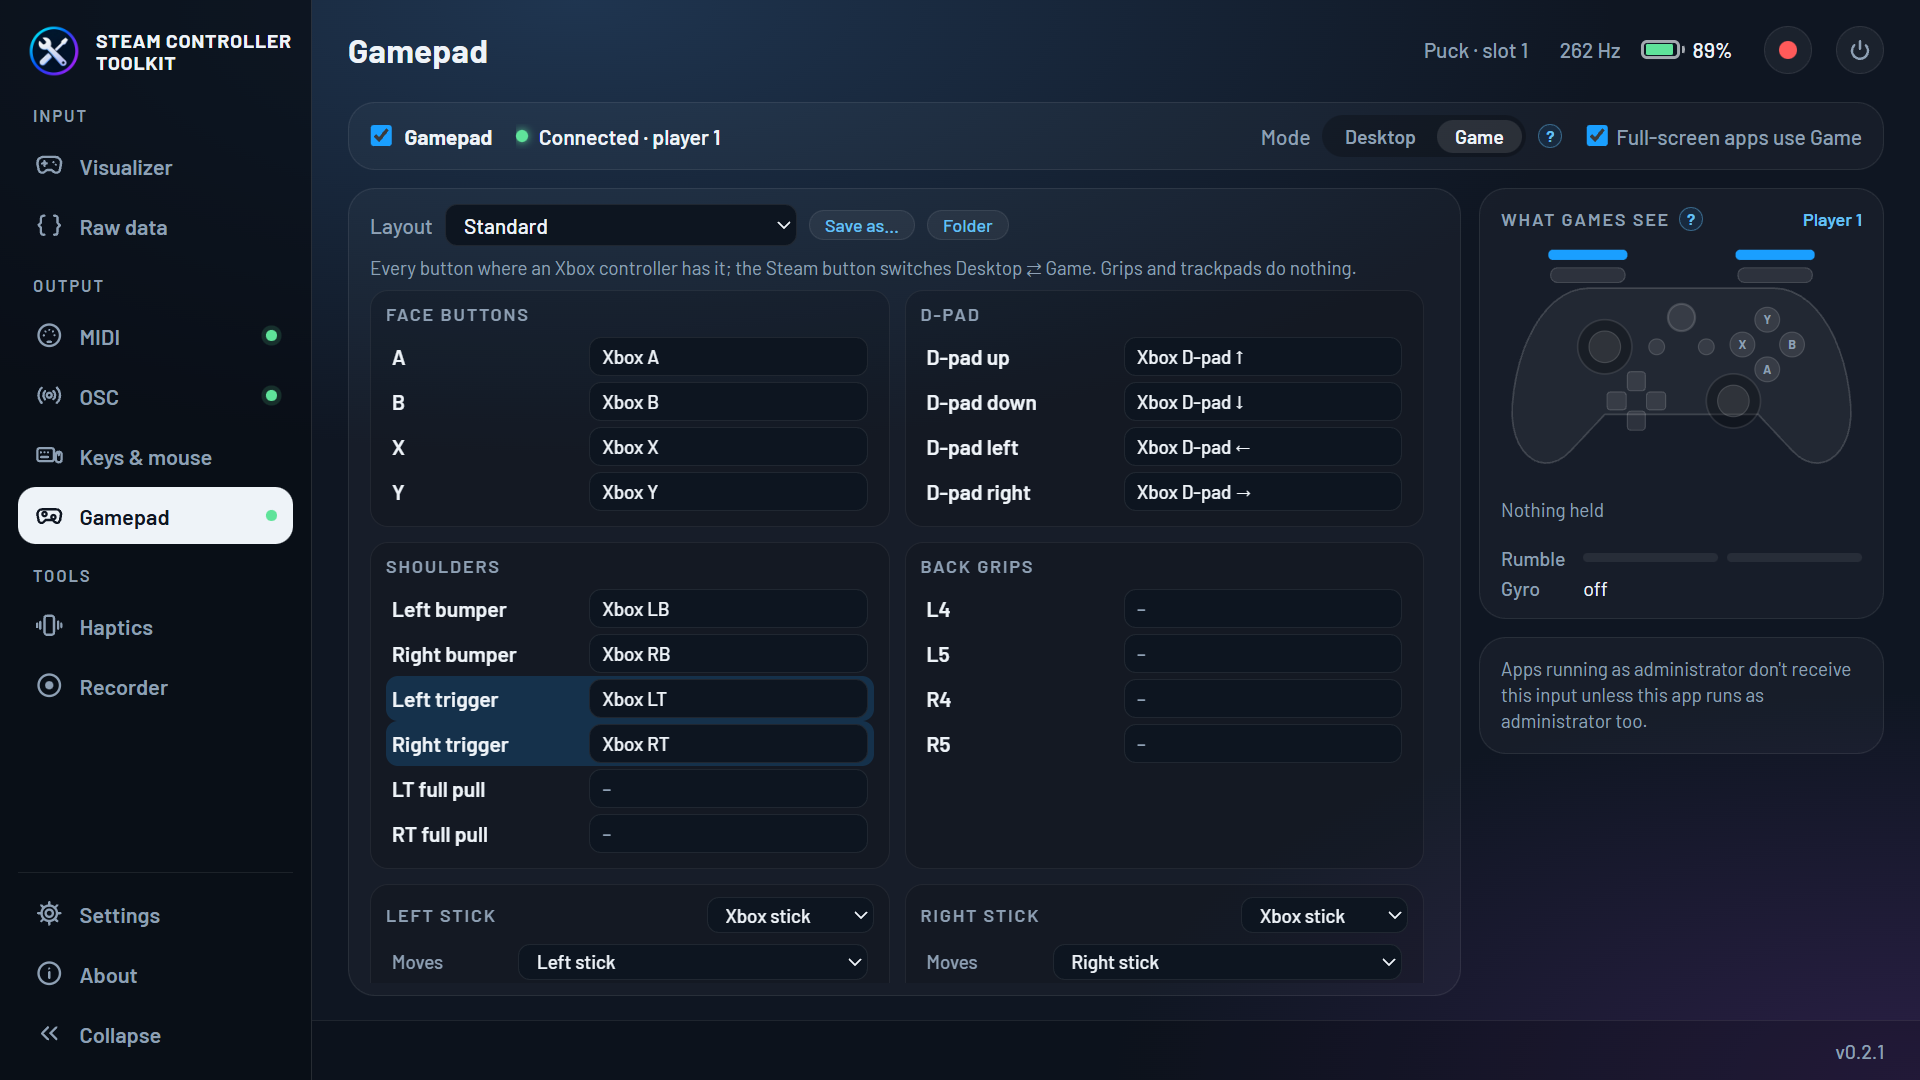
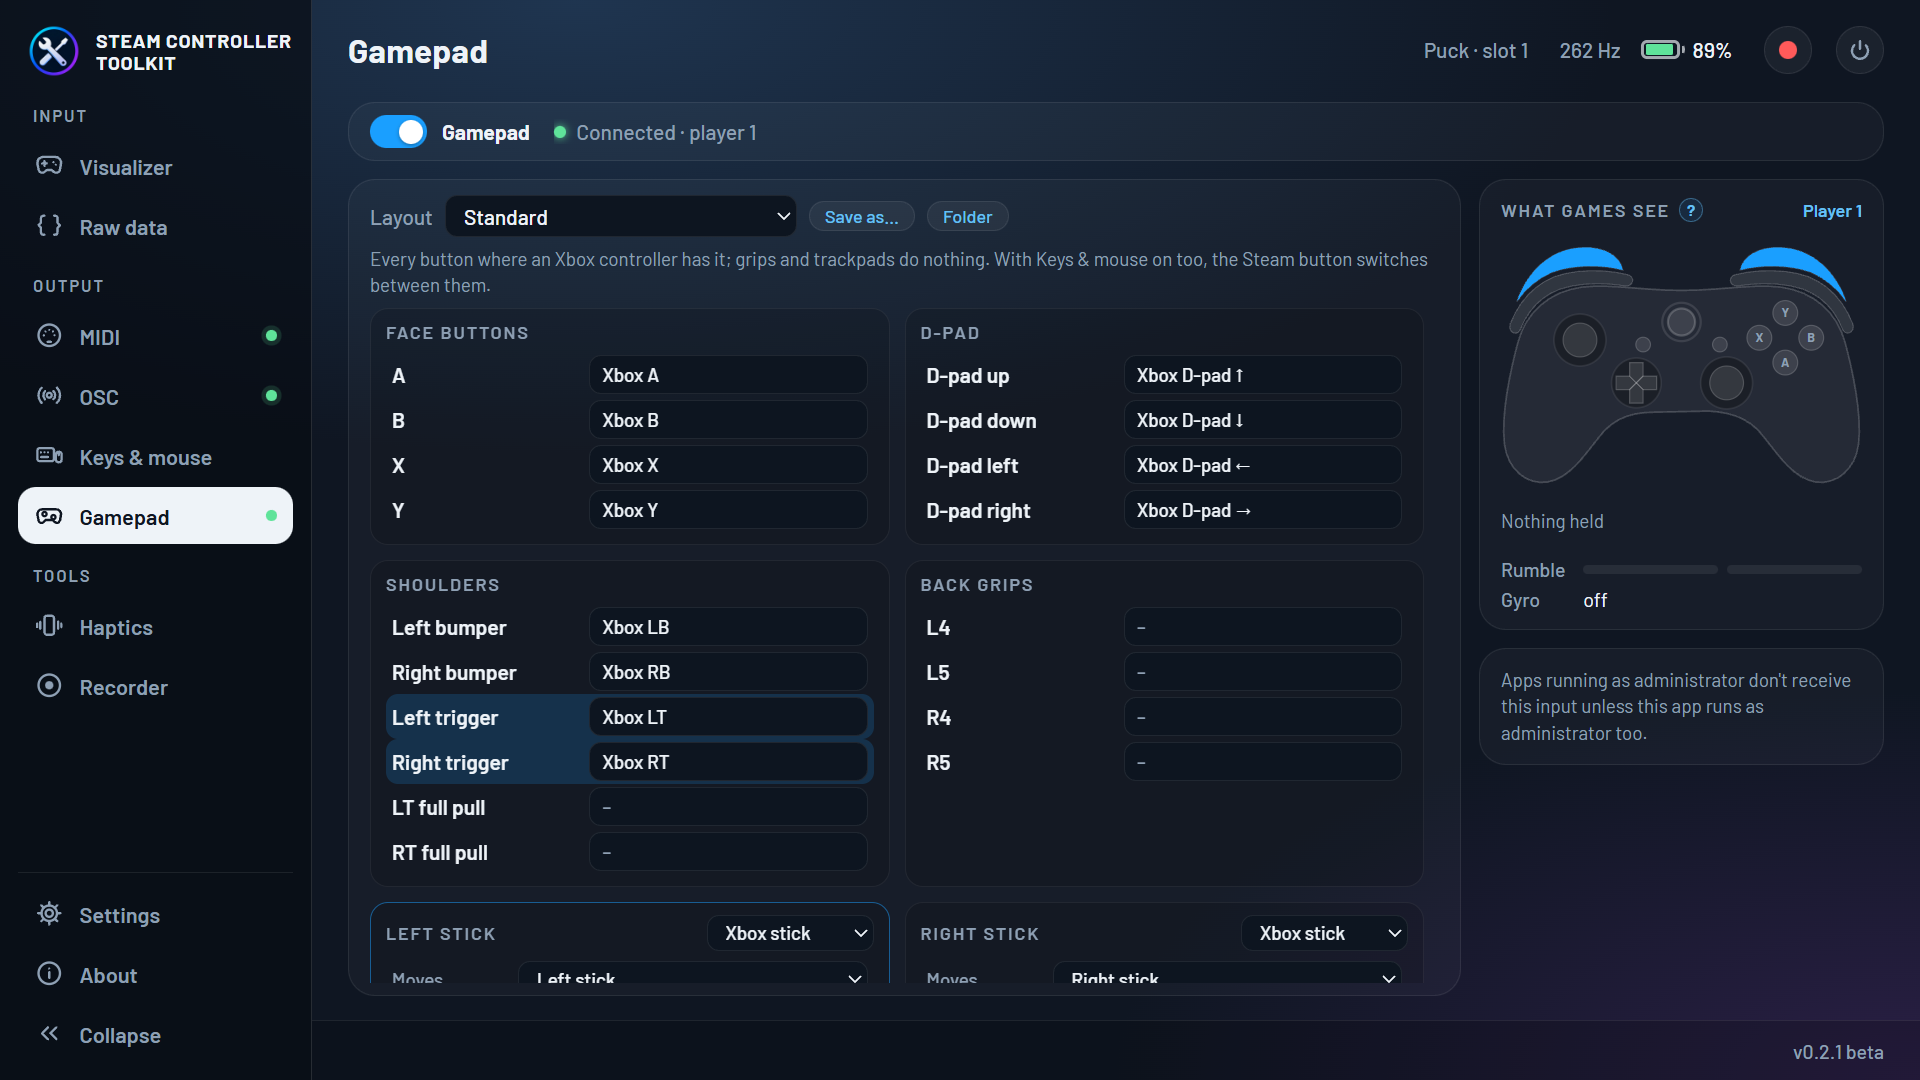
README for the switches and the gamepad without modes; release check fixes
- README: every output has the same on/off switch and starts off; MIDI
  turns on with the switch; the Desktop/Game modes belong to Keyboard &
  mouse, the gamepad is for games; OSC's switch above the destinations.
  All screenshots retaken (switches, beta label, the new pad, mirrored
  Visualizer buttons).
- tools/release-check: --only to run some sections; a button press is
  judged on its first report (a quick tap passed unseen); gyro aim is
  judged by the net turn, not the first wobble; auto switch gets 30 s;
  the gamepad is switched off before looking for its XInput slot.
  Full run on the release build: 42/45, the 3 misses were the tool's;
  gyro and modes then passed.

diff --git a/tools/release-check/src/main.rs b/tools/release-check/src/main.rs
@@ -128,9 +128,8 @@ mod checks {
             self.wait_neutral();
             let start = Instant::now();
             while start.elapsed() < STEP_TIME {
+                // Judged on the first report that shows it: a quick tap is gone a moment later.
                 if let Some(g) = input::pad(self.pad).filter(|g| seen(g)) {
-                    std::thread::sleep(Duration::from_millis(120));
-                    let g = input::pad(self.pad).unwrap_or(g);
                     let pass = ok(&g);
                     self.result(name, pass, input::fmt_pad(&g));
                     std::thread::sleep(Duration::from_millis(800));
@@ -144,11 +143,37 @@ mod checks {
         /// The first strong deflection of an axis, which must have the sign of `want` (moving back
         /// afterwards deflects the other way, so only the first one counts).
         fn axis_step(&mut self, name: &str, prompt: &str, axis: fn(&input::XGamepad) -> i32, want: i32) {
+            self.axis_step_at(name, prompt, axis, want, 9000);
+        }
+
+        /// Gyro aim moves the stick by turning speed, so what counts is the net turn over the step
+        /// (the stick summed over time): a little backswing first doesn't flip it.
+        fn gyro_step(&mut self, name: &str, prompt: &str, axis: fn(&input::XGamepad) -> i32, want: i32) {
+            self.prompt(prompt);
+            self.wait_neutral();
+            let (mut sum, mut peak) = (0f64, 0i32);
+            let end = Instant::now() + STEP_TIME;
+            while Instant::now() < end {
+                if let Some(g) = input::pad(self.pad) {
+                    let v = axis(&g);
+                    sum += v as f64 / 32767.0 * 0.005;
+                    if v.abs() > peak.abs() {
+                        peak = v;
+                    }
+                }
+                std::thread::sleep(Duration::from_millis(5));
+            }
+            let moved = peak.abs() > 5000;
+            let detail = format!("net {sum:+.2} (stick-seconds), strongest {peak:+}");
+            self.result(name, moved && (sum.signum() as i32) == want, if moved { detail } else { format!("barely moved: {detail}") });
+        }
+
+        fn axis_step_at(&mut self, name: &str, prompt: &str, axis: fn(&input::XGamepad) -> i32, want: i32, threshold: i32) {
             self.prompt(prompt);
             self.wait_neutral();
             let start = Instant::now();
             while start.elapsed() < STEP_TIME {
-                if let Some(g) = input::pad(self.pad).filter(|g| axis(g).abs() > 9000) {
+                if let Some(g) = input::pad(self.pad).filter(|g| axis(g).abs() > threshold) {
                     self.result(name, axis(&g).signum() == want, input::fmt_pad(&g));
                     std::thread::sleep(Duration::from_millis(1500));
                     return;
@@ -182,8 +207,17 @@ mod checks {
         }
     }
 
+    /// `--only a,b`: the sections to run.
+    fn only() -> Vec<String> {
+        let args: Vec<String> = std::env::args().collect();
+        args.iter().position(|a| a == "--only").and_then(|i| args.get(i + 1)).map(|v| v.split(',').map(|s| s.trim().to_string()).collect()).unwrap_or_default()
+    }
+
+    /// The app to start: a path given on the command line, else the release build.
     fn app_exe() -> PathBuf {
-        std::env::args().nth(1).map(PathBuf::from).unwrap_or_else(|| {
+        let args: Vec<String> = std::env::args().skip(1).collect();
+        let only_value = args.iter().position(|a| a == "--only").map(|i| i + 1);
+        args.iter().enumerate().find(|(i, a)| *a != "--only" && Some(*i) != only_value).map(|(_, a)| PathBuf::from(a)).unwrap_or_else(|| {
             let here = PathBuf::from(env!("CARGO_MANIFEST_DIR"));
             here.join("../../target/release/steam-controller-app.exe")
         })
@@ -231,7 +265,7 @@ mod checks {
         let saved_osc_on = snap["osc"]["enabled"].as_bool().unwrap_or(false);
         let log_path = PathBuf::from(env!("CARGO_MANIFEST_DIR")).join("last-run.log");
         let mut run = Run { page, log: File::create(&log_path).map_err(|e| e.to_string())?, results: vec![], hooks: input::start_hooks()?, pad: 0 };
-        let outcome = steps(&mut run);
+        let outcome = steps(&mut run, &only());
         // Restore, whatever happened.
         input::set_block(false);
         let restore = (|| -> Result<(), String> {
@@ -259,9 +293,39 @@ mod checks {
         Ok(failed == 0)
     }
 
-    fn steps(r: &mut Run) -> Result<(), String> {
-        // ---------- Gamepad ----------
+    /// Runs every section, or only those named with `--only gamepad,gyro,keymouse,modes,osc,tray`.
+    fn steps(r: &mut Run, only: &[String]) -> Result<(), String> {
+        let want = |s: &str| only.is_empty() || only.iter().any(|o| o == s);
+        if (want("gamepad") || want("gyro")) && !find_pad(r)? {
+            return Ok(());
+        }
+        if want("gamepad") {
+            gamepad(r)?;
+        }
+        if want("gyro") {
+            gyro(r)?;
+        }
+        if want("keymouse") {
+            keymouse(r)?;
+        }
+        if want("modes") {
+            modes(r)?;
+        }
+        if want("osc") {
+            osc(r)?;
+        }
+        if want("tray") {
+            tray(r)?;
+        }
+        Ok(())
+    }
+
+    /// Turns the gamepad on and finds its XInput slot; false if it never appears.
+    fn find_pad(r: &mut Run) -> Result<bool, String> {
         r.say("=== Gamepad (Standard layout) ===");
+        // Off first, so the pad that appears next is the app's even if it was on already.
+        r.outputs(false, None)?;
+        std::thread::sleep(Duration::from_millis(1500));
         let before = input::pads();
         r.outputs(false, Some("Standard"))?;
         r.page.show_tab("gamepad")?;
@@ -278,7 +342,7 @@ mod checks {
         let Some(pad) = pad else {
             let status = r.play()?["gamepad"].clone();
             r.result("Virtual pad appears in XInput", false, format!("no new pad (status: {status})"));
-            return Ok(());
+            return Ok(false);
         };
         r.pad = pad;
         std::thread::sleep(Duration::from_millis(500));
@@ -287,6 +351,11 @@ mod checks {
         r.result("Virtual pad appears in XInput, centred", centred, format!("XInput slot {pad}: {}", input::fmt_pad(&g)));
         let player = r.play()?["gamepad"]["player"].clone();
         r.result("Status shows the player", player.is_number(), format!("player {player}"));
+        Ok(true)
+    }
+
+    fn gamepad(r: &mut Run) -> Result<(), String> {
+        r.outputs(false, Some("Standard"))?;
 
         for &(name, bit) in PAD_BUTTONS {
             r.pad_step(&format!("Pad: {name}"), &format!("Press {name} once"), |g| g.wButtons != 0, move |g| g.wButtons == bit);
@@ -301,23 +370,29 @@ mod checks {
         r.say("\n>> Rumble: the controller should buzz twice, first the left (large) motor, then the right.");
         std::thread::sleep(Duration::from_millis(800));
         for (l, rr) in [(40000, 0), (0, 40000)] {
-            input::rumble(pad, l, rr);
+            input::rumble(r.pad, l, rr);
             std::thread::sleep(Duration::from_millis(1000));
-            input::rumble(pad, 0, 0);
+            input::rumble(r.pad, 0, 0);
             std::thread::sleep(Duration::from_millis(600));
         }
         r.ask("Rumble reaches the controller", "Did it buzz twice?");
+        Ok(())
+    }
 
+    fn gyro(r: &mut Run) -> Result<(), String> {
         // ---------- Gyro ----------
         r.say("\n=== Gyro (hold the controller as for a game) ===");
         r.outputs(false, Some("Gyro aim (stick)"))?;
         std::thread::sleep(Duration::from_millis(500));
-        r.axis_step("Gyro aim: turn right = right", "Rest your right thumb on the right stick (don't push) and TURN the controller to the RIGHT", |g| g.sThumbRX as i32, 1);
-        r.axis_step("Gyro aim: raise front = up", "Thumb on the right stick: RAISE the FRONT (trigger side) to aim up", |g| g.sThumbRY as i32, 1);
+        r.gyro_step("Gyro aim: turn right = right", "Rest your right thumb on the right stick (don't push), TURN the controller to the RIGHT and stay turned", |g| g.sThumbRX as i32, 1);
+        r.gyro_step("Gyro aim: raise front = up", "Thumb on the right stick: RAISE the FRONT (trigger side) to aim up, and stay there", |g| g.sThumbRY as i32, 1);
         r.outputs(false, Some("Racing (tilt to steer)"))?;
         std::thread::sleep(Duration::from_millis(500));
         r.axis_step("Racing: lean right = steer right", "LEAN the controller to the RIGHT like a steering wheel, and hold it there", |g| g.sThumbLX as i32, 1);
+        Ok(())
+    }
 
+    fn keymouse(r: &mut Run) -> Result<(), String> {
         // ---------- Keyboard & mouse ----------
         r.say("\n=== Keyboard & mouse (Desktop layout; what it sends is caught and blocked) ===");
         r.outputs(true, None)?;
@@ -333,9 +408,13 @@ mod checks {
         r.keys("K&M: Menu is Win", "Press Menu (three lines) once", "+Win -Win");
         r.keys("K&M: L4 is Ctrl+Z, by letter", "Press L4 (upper left back button) once", "+Ctrl +Z -Z -Ctrl");
         r.keys("K&M: R5 is Ctrl+V", "Press R5 (lower right back button) once", "+Ctrl +V -V -Ctrl");
+        Ok(())
+    }
 
+    fn modes(r: &mut Run) -> Result<(), String> {
         // ---------- Modes ----------
         r.say("\n=== Modes ===");
+        r.outputs(true, None)?;
         r.prompt("HOLD the STEAM button for 2 seconds, then let go");
         let mut modes: Vec<String> = vec![];
         let end = Instant::now() + STEP_TIME;
@@ -350,10 +429,10 @@ mod checks {
         r.ask("Steam: a click you can feel", "Did you feel ONE click when it switched?");
         r.invoke("play_set_mode", json!({ "mode": "desktop" }))?;
         r.invoke("play_set_auto_switch", json!({ "on": true }))?;
-        r.prompt("Put something FULL SCREEN in front (a browser with F11, or a video) for a few seconds, then leave full screen and come back here");
+        r.prompt("Within 30 seconds: put something FULL SCREEN in front (a browser with F11, or a video) for a few seconds, then leave full screen");
         let mut seen_game = None;
         let mut back = false;
-        let end = Instant::now() + Duration::from_secs(15);
+        let end = Instant::now() + Duration::from_secs(30);
         while Instant::now() < end && !back {
             let p = r.play()?;
             if p["mode"] == "game" && seen_game.is_none() {
@@ -363,7 +442,10 @@ mod checks {
             std::thread::sleep(Duration::from_millis(100));
         }
         r.result("Auto switch: full screen is Game, leaving it is Desktop", seen_game.is_some() && back, format!("full-screen app: {}, back to Desktop: {back}", seen_game.as_deref().unwrap_or("none seen")));
+        Ok(())
+    }
 
+    fn osc(r: &mut Run) -> Result<(), String> {
         // ---------- OSC on/off ----------
         r.say("\n=== OSC switch (checked over UDP) ===");
         r.outputs(false, None)?;
@@ -394,7 +476,10 @@ mod checks {
         r.prompt("Move both sticks around again (OSC is off now)");
         let off = count(&sock, 4);
         r.result("OSC off: nothing arrives", off == 0, format!("{off} packets in 4 s"));
+        Ok(())
+    }
 
+    fn tray(r: &mut Run) -> Result<(), String> {
         // ---------- Tray ----------
         r.say("\n=== Tray ===");
         r.outputs(true, None)?;

diff --git a/README.md b/README.md
@@ -76,8 +76,9 @@ Logic…), to move effect knobs or play notes:
 
 ![MIDI tab: output, mappings with live meters, a note grid on the right trackpad and the messages sent](docs/screenshots/midi.png)
 
-**Where the MIDI goes**: the app makes its own **Steam Controller** MIDI port, the default
-output; pick it as a MIDI input in your DAW and you're done.
+**Where the MIDI goes**: turn MIDI on with the switch at the top of the tab. The app makes its
+own **Steam Controller** MIDI port, the output it picks first; pick it as a MIDI input in your DAW
+and you're done.
 
 - **macOS**: a CoreMIDI port, on every macOS version. Logic and GarageBand use it
   automatically; other DAWs list it as an input.
@@ -113,7 +114,8 @@ desks, VJ software, DAWs. Several apps can get it at once, on this computer or o
   invert, toggle, only while held), to any address as a float, int or bool, with an output range
   and fixed values before it (e.g. a track number). It sends when the value changes, 1/0 on
   press and release, or just the address once per press (QLab's `/go`). **Learn** picks the input.
-- **Destinations**: each a host and port with its own preset; send to several at once.
+- **Destinations**: each a host and port with its own preset and on/off box; send to several at
+  once. The OSC switch at the top turns them all off at once.
 - **Presets** for TouchDesigner, Max/MSP, Pure Data, Processing, openFrameworks, SuperCollider,
   Sonic Pi, Unity (OscJack), Unreal, Godot (godOSC), Chataigne, Open Stage Control, Isadora,
   VDMX, QLC+, MadMapper, Millumin, Resolume Arena/Avenue, QLab, Reaper, Ableton Live
@@ -134,6 +136,10 @@ desks, VJ software, DAWs. Several apps can get it at once, on this computer or o
 Use the controller as a keyboard and mouse, on the desktop and in games, with nothing to install
 (Windows and Linux; not on macOS yet).
 
+- **Two modes, Desktop and Game**, each with its own layout. The **Steam button** switches
+  between them (you feel a click), and with *Full-screen apps use Game* on, a full-screen app
+  switches to Game and leaving it switches back; a switch by hand holds until another app goes
+  full screen.
 - **Two layouts**, one for each mode: a **Desktop** layout (by default: right pad and right stick
   move the pointer, the triggers click, the left stick and pad scroll, the grips undo, redo, copy
   and paste, View is Win+Tab) and a **Game** layout (by default: WASD on the left stick, mouse
@@ -166,7 +172,8 @@ rumble reaches the controller.
 - **Gyro is optional**, never required: always on, or only while your thumb rests on the right
   stick, a trigger is pulled, or a button is held or toggled. Drift is calibrated whenever the
   controller lies still.
-- A live drawing shows what games see, with the player number and rumble.
+- A live drawing of an Xbox 360 controller shows what games see, with the player number and
+  rumble.
 - **Windows** has no way for an app to add a game controller without a driver (Windows' own
   injection API is ignored by games; we tested it). The tab explains this and installs the
   open-source [ViGEmBus](https://github.com/nefarius/ViGEmBus) driver (BSD-3, signed, also used
@@ -180,11 +187,10 @@ rumble reaches the controller.
 
 ![Gamepad tab on Windows without the driver: why it's needed, what comes with it, and the Install button](docs/screenshots/gamepad-driver.png)
 
-**Desktop and Game modes**, shared by both tabs: the **Steam button** switches between them (you
-feel a click), and with *Full-screen apps use Game* on, a full-screen app switches to Game and
-leaving it switches back; a switch by hand holds until another app goes full screen. With both
-outputs on, the controller is a mouse on the desktop and a gamepad in games. Both work from the
-tray. Meant for use **without Steam**: with Steam running, its Desktop Layout sends mouse input
+**Keyboard & mouse and the gamepad together**: the gamepad is for games, so it has no modes of
+its own. With both on, the controller is a mouse on the desktop and a gamepad in games: Keyboard
+& mouse's Game mode (the Steam button, or a full-screen app) hands over to the gamepad. Both work
+from the tray. Meant for use **without Steam**: with Steam running, its Desktop Layout sends mouse input
 too, so input arrives twice. Apps running as administrator don't receive the keyboard & mouse
 input unless the Toolkit runs as administrator too.
 
@@ -221,6 +227,8 @@ Record a session and play it back without a controller:
 ### Everywhere
 
 - The top bar shows the connection (e.g. *Puck · slot 1*), report rate and battery.
+- **Every output (MIDI, OSC, keyboard & mouse, gamepad) has the same on/off switch** at the top
+  of its tab. They all start off, and each remembers whether it was on.
 - **Power button**: turns the controller off (click twice to confirm).
 - **Click any value to copy it**, or *Copy all* for a whole report as hex.
 - A warning appears while Steam is running (see [Requirements](#requirements)).

diff --git a/tools/release-check/README.md b/tools/release-check/README.md
@@ -40,6 +40,9 @@ npm run tauri build -- --no-bundle
 cargo run --manifest-path tools/release-check/Cargo.toml
 ```
 
+To run only some sections, name them: `cargo run --manifest-path tools/release-check/Cargo.toml -- --only gyro,modes`
+(sections: `gamepad`, `gyro`, `keymouse`, `modes`, `osc`, `tray`).
+
 To check another build, pass its path: `cargo run --manifest-path tools/release-check/Cargo.toml -- path\to\steam-controller-app.exe`.
 An app already running with the debugging port (`WEBVIEW2_ADDITIONAL_BROWSER_ARGUMENTS=--remote-debugging-port=9222`,
 e.g. under `npm run tauri dev`) is used as it is.
